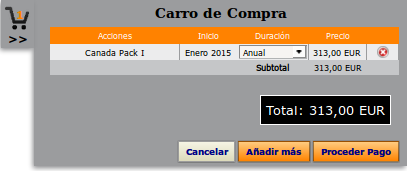
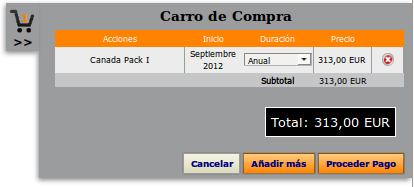
Changing Images and texts in Detailed Description page. Sections: Packs contents, Cart, My Patterns

Changed region(s): [[0.0, 0.0, 1.0, 0.9942], [0.6192, 0.5556, 0.973, 0.7602]]

diff --git a/src/app/services/detailed_description/detailed_description.tpl.html b/src/app/services/detailed_description/detailed_description.tpl.html
@@ -651,14 +651,14 @@ aciertos, reduciendo el drawdown y minimizando el tiempo de exposición al merca
             <span style="text-decoration: underline; "> Ejemplo: </span>
             Un ahorrador  que no es cliente de Market Observatory, dispondrá de dinero en septiembre y desea colocarlo en algunas
             compañías de la Bolsa de Canadá. Como sabe que Market Observatory publica las mejores oportunidades, en agosto podrá
-            comprar un Pack de <strong>Acciones</strong> / mes de <strong>Septiembre</strong> 2012 / región <strong>Canadá</strong> / que contiene los 50
-            mejores Patrones de compañías de Canadá.
+            comprar un Pack de <strong>Acciones</strong> / mes de <strong>Septiembre</strong> 2012 / región <strong>Canadá Pack I</strong> / que contiene los 50
+            mejores Patrones de compañías de Canadá (Generalmente existen varios Packs para cada región).
             A continuación se ilustra el aspecto parcial del home de la web.
         </p>
 
         <p class="detailed_description_img"><img src="assets/img/services/detailed_description/monthly1.png" alt=""></p>
 
-        <p>Al hacer clic sobre Canadá se muestra un avance de las compañías que cotizan en mercados de ese país con
+        <p>Al hacer clic sobre Canadá Pack I, se muestra un avance de las compañías que cotizan en mercados de ese país con
             diferentes parámetros y que podrá poner en práctica durante septiembre a través de su intermediario financiero.</p>
 
         <p class="detailed_description_img"><img src="assets/img/services/detailed_description/monthly2.png" alt=""></p>
@@ -668,10 +668,10 @@ aciertos, reduciendo el drawdown y minimizando el tiempo de exposición al merca
             Muestra un avance del contenido de las 50 compañías disponibles por orden alfabético y un resumen de algunos parámetros de valoración de Patrones.
         </p>
         <ul class="list-left-first-level public-list-first-level">
-            <li><strong>Nombres</strong> de la Compañías: “Acme Resources”, “AquaPure”, etc.
+            <li><strong>Nombres</strong> de la Compañías: “Acme Resources”, “Alam Force”, etc.
             </li>
             <li>
-                <strong>Mercados</strong> de cotización, Venture, Toronto.
+                <strong>Mercados</strong> de cotización: Venture, Toronto, etc.
             </li>
             <li>
                 <strong>Sector e Industria</strong> del negocio.
@@ -690,7 +690,7 @@ aciertos, reduciendo el drawdown y minimizando el tiempo de exposición al merca
                         La renta acumulada es 288% se obtiene sumando la rentabilidad individual de cada uno de los 15 años sobre “Avcorp Industries”.
                     </li>
                     <li>
-                        La rentabilidad promedio por operación ha sido 19,18%. No es rentabilidad anual sino la conseguida durante el periodo que dura la operación.
+                        La rentabilidad promedio por operación ha sido 19,2%. No es rentabilidad anual sino la conseguida durante el periodo que dura la operación.
                     </li>
                 </ul>
             </li>
@@ -790,7 +790,7 @@ aciertos, reduciendo el drawdown y minimizando el tiempo de exposición al merca
 
 <p>Desde el Home elegir:</p>
 <ul class="list-left-first-level public-list-first-level">
-    <li>El grupo donde están clasificados los Packs, entre en Acciones, Par Acciones, Índices o Futuros.
+    <li>El grupo donde están clasificados los Packs, entre en Acciones, Pares, Índices o Futuros.
     </li>
     <li><strong>Mes</strong> de Publicación.
     </li>
@@ -800,8 +800,8 @@ aciertos, reduciendo el drawdown y minimizando el tiempo de exposición al merca
 </p>
 <ul class="list-left-first-level public-list-first-level">
     <li>
-       Por ejemplo, al seleccionar el grupo de Acciones durante enero 2015, se muestran los Packs contratables.
-        Al hacer clic sobre el Pack de Canadá se despliega un avance del contenido de las estrategias publicadas.
+       Por ejemplo, al seleccionar el grupo de Acciones durante septiembre 2012, se muestran los Packs contratables.
+        Al hacer clic sobre el Pack I de Canadá se despliega un avance del contenido de las estrategias publicadas.
     </li>
 </ul>
 <p class="detailed_description_img">
@@ -1024,16 +1024,16 @@ aciertos, reduciendo el drawdown y minimizando el tiempo de exposición al merca
                         Etiqueta <strong>Favoritos</strong> permite marcar estrategias para realizar una gestión diferenciada y seguimiento separado.
                     </li>
                     <li>
-                        El <strong>Semáforo</strong> de estado informa si la estrategia está Sin Iniciar, Comenzada o Finalizada. Ejemplo hoy es 30 de agosto:
+                        El <strong>Semáforo</strong> de estado informa si la estrategia está Sin Iniciar, Comenzada o Finalizada. Ejemplo hoy es 27 de febrero:
                         <ol class="list-left-first-level" type="I">
                             <li style="list-style-image: none !important;">
-                                Si el patrón comienza el 31 agosto el semáforo está <i>Verde</i> (sin Iniciar).
+                                Si el patrón comienza el 28 febrero el semáforo está <i>Verde</i> (sin Iniciar).
                             </li>
                             <li style="list-style-image: none !important;">
-                                Si el patrón comienza el 2 agosto y termina el 1 octubre, el semáforo está <i>Naranja</i> (Comenzado).
+                                Si el patrón comienza el 2 febrero y termina el 1 marzo, el semáforo está <i>Naranja</i> (Comenzado).
                             </li>
                             <li style="list-style-image: none !important;">
-                                Si el patrón comienza el 2 agosto y termina el 29 agosto, el semáforo está <i>Rojo</i> (Finalizado).
+                                Si el patrón comienza el 2 febrero y termina el 26 febrero, el semáforo está <i>Rojo</i> (Finalizado).
                             </li>
                         </ol>
                     </li>
